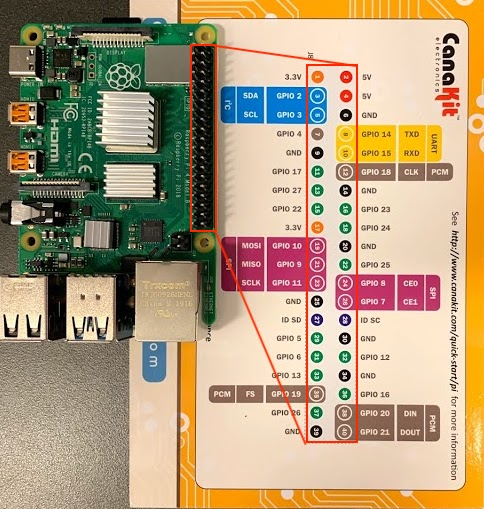
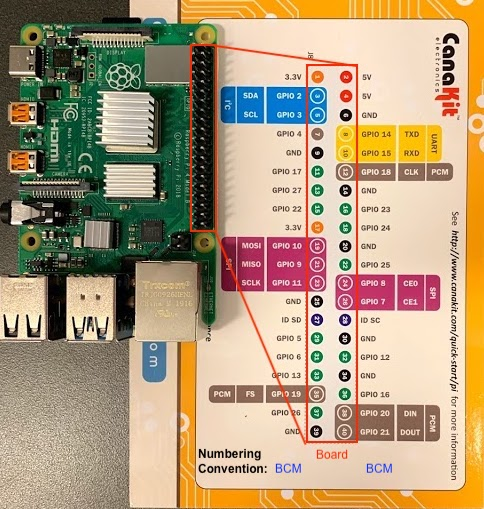
Edits to Tutorial 3

diff --git a/_posts/2019-07-29-binary.md b/_posts/2019-07-29-binary.md
@@ -8,7 +8,7 @@ In this tutorial, we will
 
 - Introduce you to **General-Purpose Input/Output (GPIO) pins** on the RPi.
 - Teach you how to connect simple circuits with breadboard.
-- Guide you to set up your first sensor and actuator, and interface with them using Python script. *(For those of you who are not familiar with Python programming, you may want to refer to online resources, such as [this](https://www.learnpython.org/), to get started.)*
+- Guide you to set up your first sensor and actuator, and interface with them using Python script. *For those of you who are not familiar with Python programming, you may want to refer to online resources, such as [this](https://www.learnpython.org/), to get started.*
 
 The content of this tutorial elaborates on the information in **pp. 7-11 from the Quick-Start Guide**.
 
@@ -17,12 +17,11 @@ The content of this tutorial elaborates on the information in **pp. 7-11 from th
 ### GPIO Pins
 The GPIO pins are the interface with sensors and actuators. Note that GPIO pins only relay digital signals, i.e. the pins only input/output **HIGH** or **LOW**. In this tutorial, we will work with sensors/actuators with binary states. In the next tutorial, we will show you how to interface with analog signals.  
 
-The kit comes with a **GPIO Header Quick Reference Card**, which corresponds to the physical header on the RPi as shown below:
+The kit comes with a **GPIO Header Quick Reference Card**, which corresponds to the physical header on the RPi as shown below. There are two numbering conventions on the **Reference Card**, **Board** and **BCM**, which are also marked in the figure. we follow the **BCM** convention in all the tutorials.  
  
 ![GPIO](/12740/assets/GPIO.jpg)
 
-
-To make things easier, the kit comes with a breakout board and a ribbon cable. Connect the GPIO pins to the breadboard using the ribbon cable and breakout board, like this:
+Making things easier, the kit comes with a breakout board and a ribbon cable. Connect the GPIO pins to the breadboard using the ribbon cable and breakout board, like this:
 
 ![GPIO](/12740/assets/breakout_b.jpg)
 
@@ -40,7 +39,7 @@ We will start by connecting an LED to the breadboard. The LED will blink followi
 
 ![led](/12740/assets/LED.jpg)
 
-- Type the following code into Thonny Python IDE that comes with the Raspbian OS. Alternatively, all the sample codes used for tutorials in this course are available at this [Github Repository](https://github.com/chenbq1234/12740_code). You may download the repository to your local path.
+- Copy & paste the following code into Thonny Python IDE that comes with the Raspbian OS. Alternatively, all the sample codes used for the tutorials are available at this [Github Repository](https://github.com/chenbq1234/12740_code). You may download the repository to your local path.
  
 ```python
 import RPi.GPIO as GPIO
@@ -64,8 +63,10 @@ while True:
 ### Control the LED with a Button
 Now, we will use a physical button to control the LED.  
 
-- Set up the circuit following **p. 10 of the Quick-Start Guide**. The circuit should look like this: 
+- Set up the circuit following **p. 10 of the Quick-Start Guide**. You may want to straighten out the four legs on the button. It is easier to press the button onto the breadboard that way. The circuit should look like this: 
+
 ![led](/12740/assets/LED_Button.jpg)
+
 - You only need to modify a few line of codes to replace the timer with the button.
 
 ```python

diff --git a/_posts/2019-07-05-adc.md b/_posts/2019-07-05-adc.md
@@ -3,5 +3,18 @@ layout: post
 title: Using ADC
 permalink: /tutorials/adc.html
 ---
+The GPIO pins on RPi only relay digital signals. However, signals from sensors are often analog. In this tutorial, we will show you:
+- How to translate analog signals to digital signals using an Analog-to-Digital Converter (ADC).
 
-Tutorial for ADC
+### Sensor Kit
+| **Date**      | **Topic**     |
+| ------------- | ---------------------|
+|              |        |
+|      Temperature Sensor        |  [DS18B20 Spec Sheet](https://datasheets.maximintegrated.com/en/ds/DS18B20.pdf)   |
+
+
+### MCP3008
+8 channels of analog input with 10-bit precision
+[MCP3008 Spec Sheet](https://cdn-shop.adafruit.com/datasheets/MCP3008.pdf)
+
+[SPI](https://en.wikipedia.org/wiki/Serial_Peripheral_Interface)
